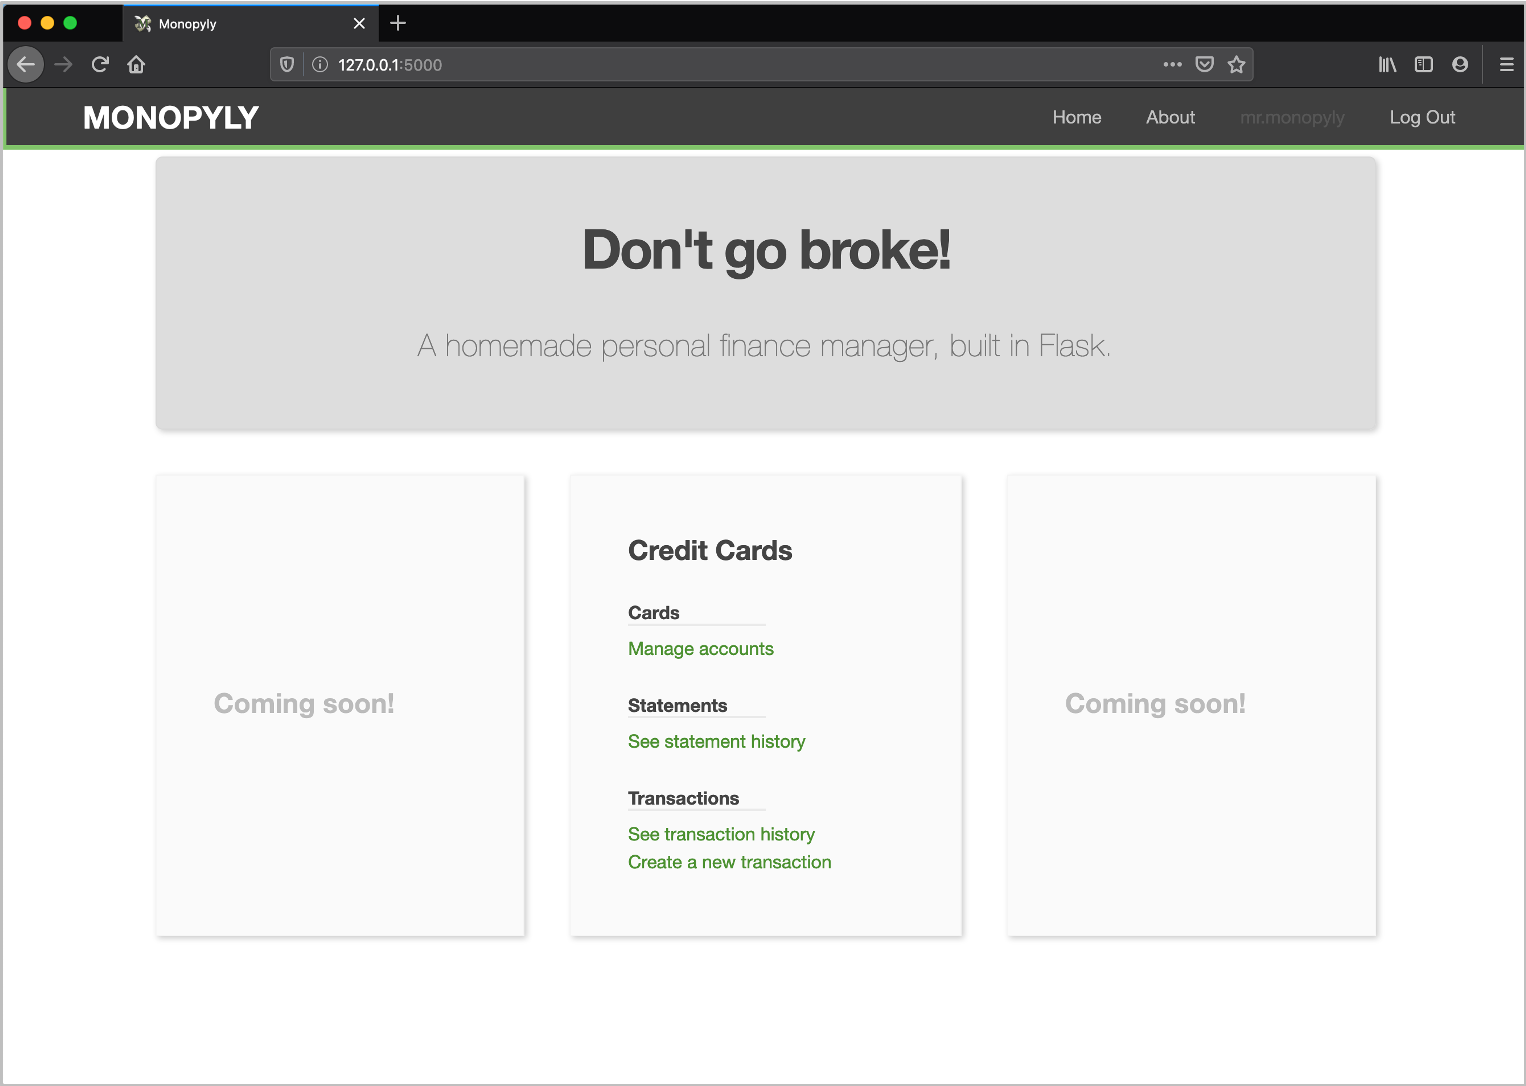
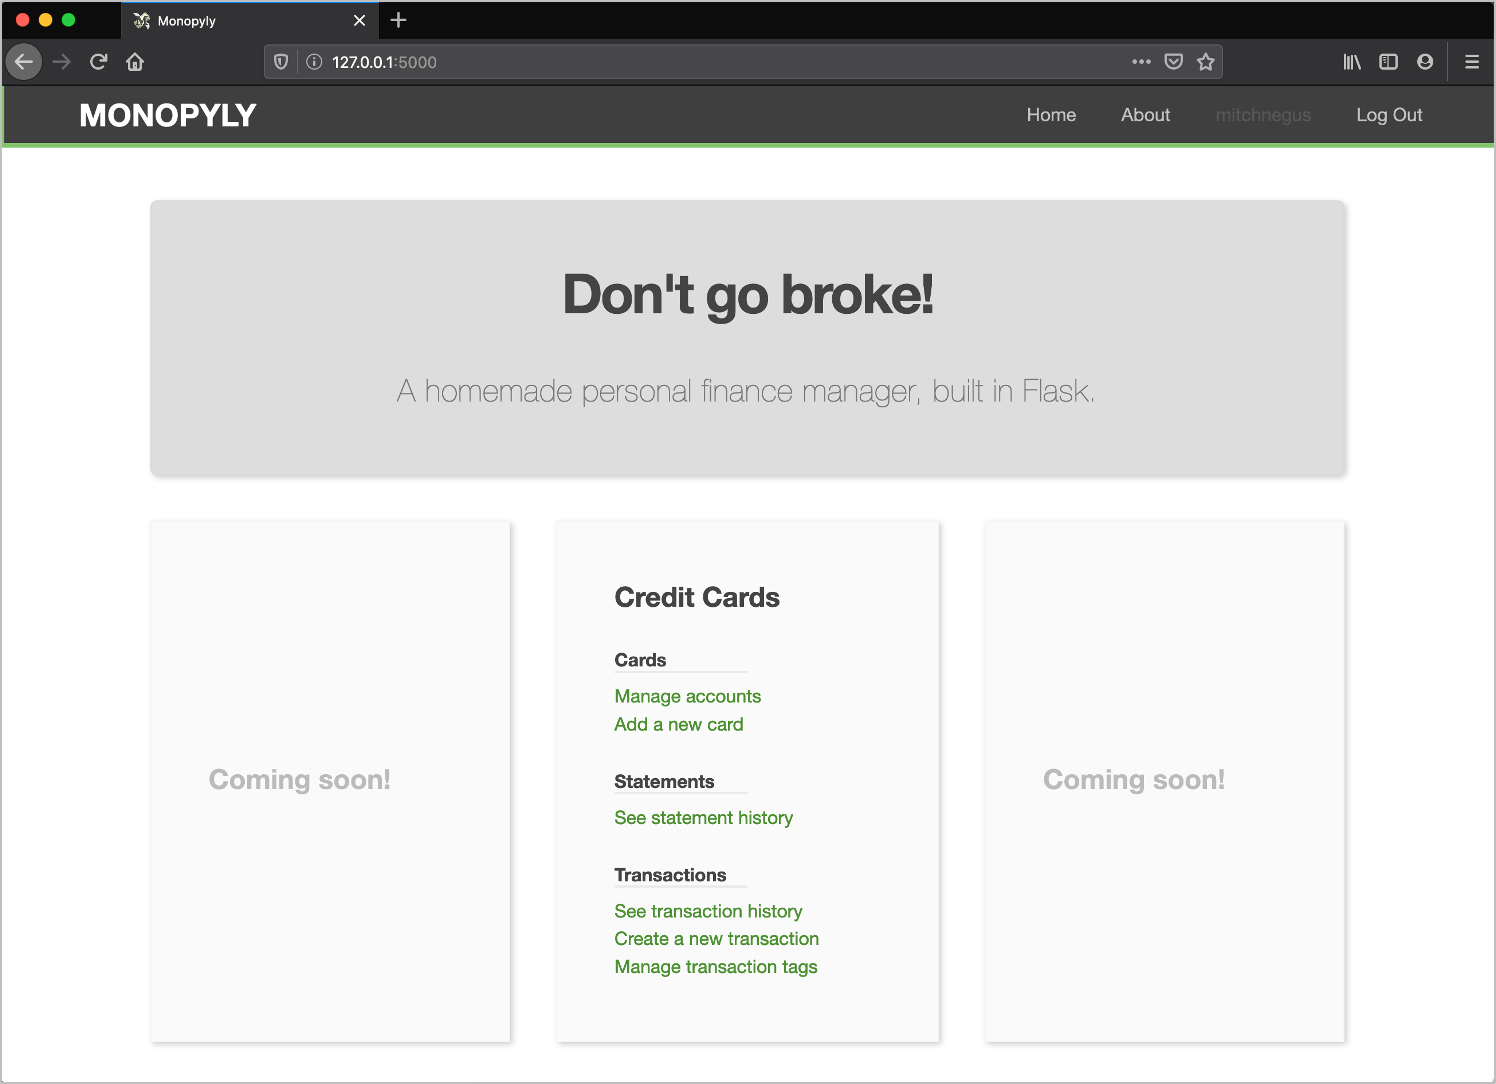
finalized update 1.0.4

diff --git a/setup.py b/setup.py
@@ -18,7 +18,7 @@ long_description = convert_markdown(raw_long_description,
 
 setup(
     name='monopyly',
-    version='1.0.3',
+    version='1.0.4',
     description='A homemade personal finance manager.',
     author='Mitch Negus',
     author_email='mitchnegus57@gmail.com',

diff --git a/CHANGELOG.md b/CHANGELOG.md
@@ -27,9 +27,10 @@
 - Fixed bug where tags where not saved on new transactions
 
 
-## 1.0.4 (in progress)
+## 1.0.4
 
+- Improved tagging interface with a 'Manage Tags' page
+- Introduced statement level statistics
 - Renamed database files to end with `.sqlite` extension
 - Moved menus on 'Statement Details' and 'Account Details' pages into the sidebar to prevent overlap on collapsed screens
-- Introduced statement level statistics
 - Renamed `show_*` route functions to `load_*` to clarify that they are for loading the associated pages (as opposed to just displaying content)
